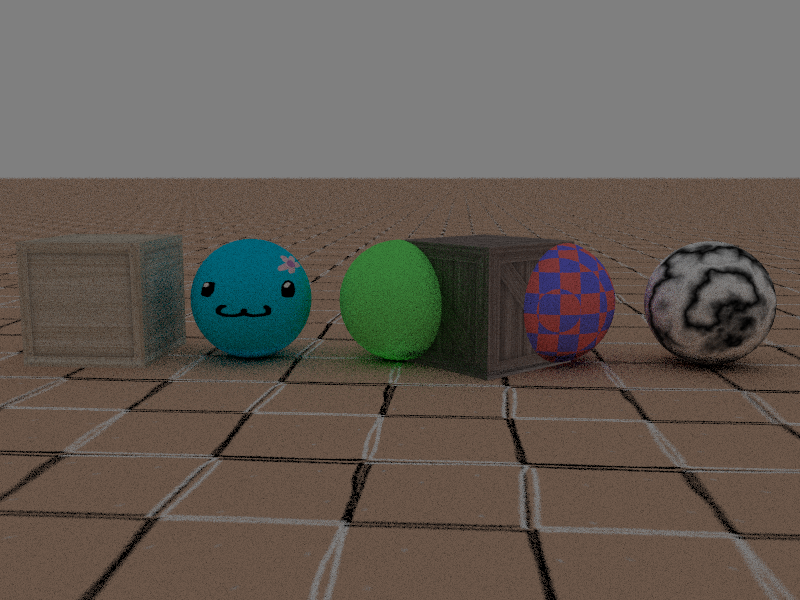
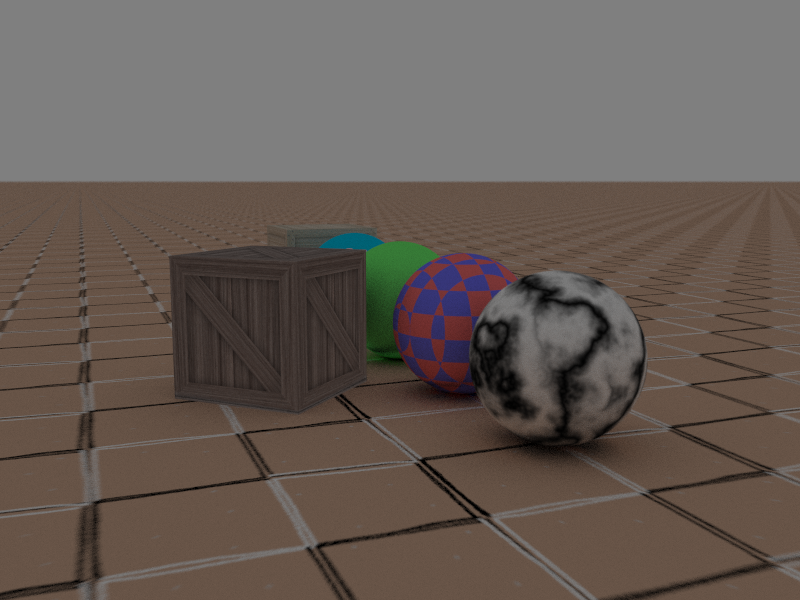
Replace output.png with better example of a rotated object.

Changed region(s): [[0.0, 0.36, 1.0, 1.0], [0.0, 0.27, 1.0, 0.33], [0.0, 0.39, 0.0312, 0.42]]

diff --git a/src/util/world.rs b/src/util/world.rs
@@ -340,16 +340,19 @@ pub fn load_from_json(filename: String) -> HitableList {
     println!("Done loading.");
 
     // Test cube
-    list.push(RotateY::new(
-        Cuboid::new(
-            Vec3::new(0.0, 0.0, 0.0),
-            Vec3::new(2.0, 2.0, 2.0),
-            Lambertian::new(ImageTexture::new(
-                image::open("res/images/crate2_diffuse.png").unwrap(),
-                1.0,
-            )),
+    list.push(Translate::new(
+        RotateY::new(
+            Cuboid::new(
+                Vec3::new(0.0, 0.0, 0.0),
+                Vec3::new(2.0, 2.0, 2.0),
+                Lambertian::new(ImageTexture::new(
+                    image::open("res/images/crate2_diffuse.png").unwrap(),
+                    1.0,
+                )),
+            ),
+            45.0,
         ),
-        45.0,
+        Vec3::new(0.0, 0.0, 2.5),
     ));
 
     let list = HitableList::new(list);
